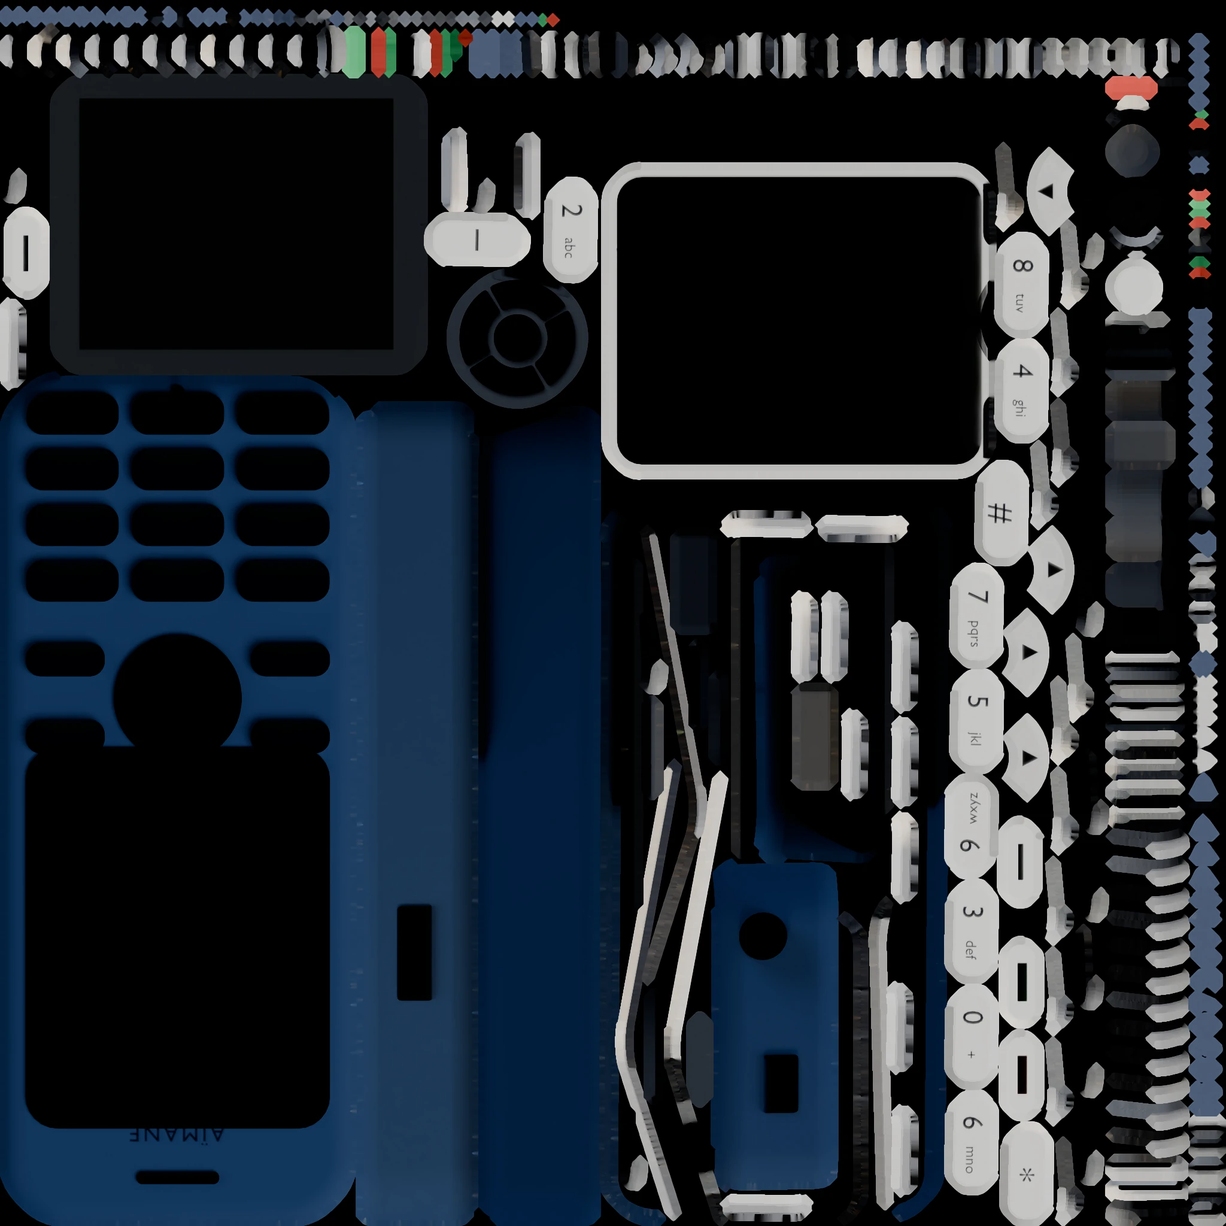
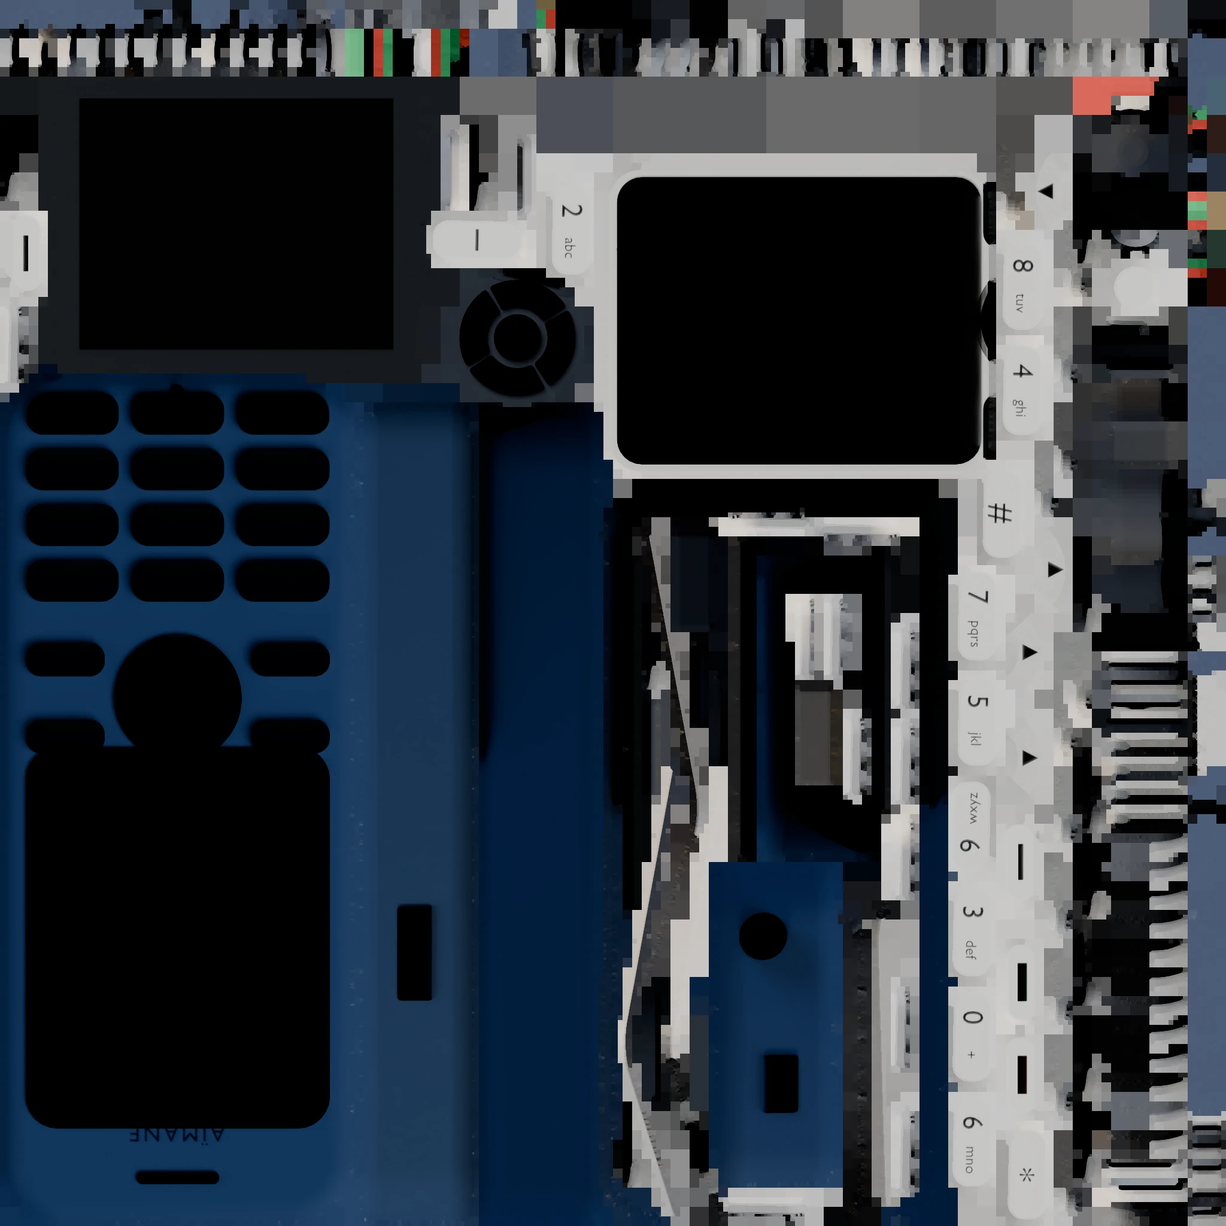
Phone version: fill texture gaps so small keys keep their colours
Empty space in the baked textures is now filled with nearby colours, so
labels on small keys no longer turn dark when the phone is seen at a
distance.

Claude-Session: https://claude.ai/code/session_016hYwLkNDJSpwwKGYn8Pvn6

diff --git a/phone/app.js b/phone/app.js
@@ -4276,7 +4276,7 @@ Touches : fl\xE8ches ou 2 4 6 8 pour bouger, OK ou la touche gauche pour choisir
         col += g;
         gl_FragColor = vec4(col, 1.0);
         #include <colorspace_fragment>
-      }`});return n.extensions={derivatives:!0},{mat:n,tex:e,data:i,uniforms:t}}function Fh(i,e){let t=ea[e]||ea.green;i.uniforms.uBg.value.set(t.bg),i.uniforms.uEdge.value.set(t.edge),i.uniforms.uInk.value.set(t.ink)}var Hx={1:1209,2:1336,3:1477,4:1209,5:1336,6:1477,7:1209,8:1336,9:1477,star:1209,0:1336,hash:1477},oc=class{constructor(){this.ctx=null,this.on=!0}unlock(){if(this.ctx){this.ctx.state==="suspended"&&this.ctx.resume();return}let e=window.AudioContext||window.webkitAudioContext;if(e)try{this.ctx=new e}catch{this.ctx=null}}tone(e,t,n=.035,s=0){if(!this.on||!this.ctx)return;let r=this.ctx,a=r.currentTime+s,o=r.createOscillator(),c=r.createGain();o.type="square",o.frequency.value=e,c.gain.setValueAtTime(0,a),c.gain.linearRampToValueAtTime(n,a+.004),c.gain.setValueAtTime(n,a+t-.01),c.gain.linearRampToValueAtTime(0,a+t),o.connect(c).connect(r.destination),o.start(a),o.stop(a+t+.02)}play(e,t){e==="key"?this.tone(Hx[t]||1650,.06):e==="tap"?this.tone(1900,.03,.02):e==="eat"?this.tone(2100,.035,.03):e==="over"?[880,660,440].forEach((n,s)=>this.tone(n,.12,.035,s*.13)):e==="boot"&&[[784,.11],[988,.11],[1175,.11],[1568,.26],[1319,.11],[1568,.34]].reduce((n,[s,r])=>(this.tone(s,r,.03,n),n+r+.02),.05)}};var cc={w:44,h:44,rows:["............................................","............................................","............................................","............................................","............................................","..................######....................",".................##########.................","...............#####.#######................","..............###..........##...............",".............##.............#...............","............##...#..#..#..#..#..............","............##..#..#.........##.............","............##..#....#..##...##.............","............#..#...........#..#.............","............#.######..#..#..#.#.............","...........##.##.##....######.#.............","............#.......#.........#.............","............#.####.##..####.#.#.............","...........##.##.#.##..#.##.#.#.............","..........##......##..........##............","..........##..#....#...#...#...##...........","..........##..#..#.....#.....#.#............","..........##...#..###.##..#..#.#............","...........###.....##.........##............","...........##..#..#....##..##.#.............","............#.#..##..#..#....##.............",".............##.#.##.##.##..##..............",".............#..#.........#.#...............","..............##.#.##..#..#.#...............","..............#..#.....#....#...............","..............##..#..#...#.##...............","..............##..#......#..#...............","..............###.###.###.#.#...............",".............##..#..##..#...#...............","..............##.#.......#.#..#.............","...........#...#..##..#..#.#..#.............","..........##....##..#..#..#...##............","........####.....##.#..###....####..........","......######......##..#.......#######.......","....####.####........#........#########.....","..#####.##.##................############...","#######.#.###.....######.....###.###########","###.#.##.####....##.#####....####..##.######","#.###..###.##..####...##.##..######.##..####"]};var dc="1",Vx="#e9e2d6",on=i=>document.querySelector(i),cs=(i,e)=>{try{if(e===void 0)return localStorage.getItem("ab95."+i);localStorage.setItem("ab95."+i,e)}catch{return null}},lc=(i,e,t)=>new N(i,t,-e),Wx=i=>i<.5?4*i*i*i:1-Math.pow(-2*i+2,3)/2,qx=new URLSearchParams(location.search),hc=qx.get("lang")||cs("lang")||((navigator.language||"").toLowerCase().startsWith("fr")?"fr":"en");Ni[hc]||(hc="en");var Fi=new oc,Nt={lang:hc,tones:cs("tones")!=="0",backlight:cs("backlight")||"green",photo:null};Fi.on=Nt.tones;var os=on("#scene"),ls;try{ls=new Xo({canvas:os,antialias:!0,powerPreference:"high-performance"})}catch(i){throw location.replace(`${Dt.quick}?lang=${hc}`),i}ls.setPixelRatio(Math.min(window.devicePixelRatio||1,2));ls.outputColorSpace=mt;ls.toneMapping=wn;var kh=new br,Lf=new Ae(Vx);kh.background=Lf;var Xt=new Mt(40,1,.01,60),fc=new Bs,zh=0,Df=!1;fc.onProgress=(i,e,t)=>{zh=e/t};var Nf=new Yi(fc),Xx=ls.capabilities.getMaxAnisotropy();function Uh(i){let e=Nf.load(`assets/${i}.webp?v=${dc}`);return e.flipY=!1,e.colorSpace=mt,e.anisotropy=Math.min(8,Xx),new fn({map:e})}var Gh={baked_phone:Uh("phone"),baked_props:Uh("props"),baked_room:Uh("room")},Hh=Nf.load(`assets/floor.webp?v=${dc}`);Hh.flipY=!1;Hh.colorSpace=On;Gh.baked_floor=new sn({uniforms:{map:{value:Hh},bg:{value:Lf}},vertexShader:"varying vec2 vUv; void main(){ vUv = uv; gl_Position = projectionMatrix * modelViewMatrix * vec4(position,1.0); }",fragmentShader:`uniform sampler2D map; uniform vec3 bg; varying vec2 vUv;
+      }`});return n.extensions={derivatives:!0},{mat:n,tex:e,data:i,uniforms:t}}function Fh(i,e){let t=ea[e]||ea.green;i.uniforms.uBg.value.set(t.bg),i.uniforms.uEdge.value.set(t.edge),i.uniforms.uInk.value.set(t.ink)}var Hx={1:1209,2:1336,3:1477,4:1209,5:1336,6:1477,7:1209,8:1336,9:1477,star:1209,0:1336,hash:1477},oc=class{constructor(){this.ctx=null,this.on=!0}unlock(){if(this.ctx){this.ctx.state==="suspended"&&this.ctx.resume();return}let e=window.AudioContext||window.webkitAudioContext;if(e)try{this.ctx=new e}catch{this.ctx=null}}tone(e,t,n=.035,s=0){if(!this.on||!this.ctx)return;let r=this.ctx,a=r.currentTime+s,o=r.createOscillator(),c=r.createGain();o.type="square",o.frequency.value=e,c.gain.setValueAtTime(0,a),c.gain.linearRampToValueAtTime(n,a+.004),c.gain.setValueAtTime(n,a+t-.01),c.gain.linearRampToValueAtTime(0,a+t),o.connect(c).connect(r.destination),o.start(a),o.stop(a+t+.02)}play(e,t){e==="key"?this.tone(Hx[t]||1650,.06):e==="tap"?this.tone(1900,.03,.02):e==="eat"?this.tone(2100,.035,.03):e==="over"?[880,660,440].forEach((n,s)=>this.tone(n,.12,.035,s*.13)):e==="boot"&&[[784,.11],[988,.11],[1175,.11],[1568,.26],[1319,.11],[1568,.34]].reduce((n,[s,r])=>(this.tone(s,r,.03,n),n+r+.02),.05)}};var cc={w:44,h:44,rows:["............................................","............................................","............................................","............................................","............................................","..................######....................",".................##########.................","...............#####.#######................","..............###..........##...............",".............##.............#...............","............##...#..#..#..#..#..............","............##..#..#.........##.............","............##..#....#..##...##.............","............#..#...........#..#.............","............#.######..#..#..#.#.............","...........##.##.##....######.#.............","............#.......#.........#.............","............#.####.##..####.#.#.............","...........##.##.#.##..#.##.#.#.............","..........##......##..........##............","..........##..#....#...#...#...##...........","..........##..#..#.....#.....#.#............","..........##...#..###.##..#..#.#............","...........###.....##.........##............","...........##..#..#....##..##.#.............","............#.#..##..#..#....##.............",".............##.#.##.##.##..##..............",".............#..#.........#.#...............","..............##.#.##..#..#.#...............","..............#..#.....#....#...............","..............##..#..#...#.##...............","..............##..#......#..#...............","..............###.###.###.#.#...............",".............##..#..##..#...#...............","..............##.#.......#.#..#.............","...........#...#..##..#..#.#..#.............","..........##....##..#..#..#...##............","........####.....##.#..###....####..........","......######......##..#.......#######.......","....####.####........#........#########.....","..#####.##.##................############...","#######.#.###.....######.....###.###########","###.#.##.####....##.#####....####..##.######","#.###..###.##..####...##.##..######.##..####"]};var dc="2",Vx="#e9e2d6",on=i=>document.querySelector(i),cs=(i,e)=>{try{if(e===void 0)return localStorage.getItem("ab95."+i);localStorage.setItem("ab95."+i,e)}catch{return null}},lc=(i,e,t)=>new N(i,t,-e),Wx=i=>i<.5?4*i*i*i:1-Math.pow(-2*i+2,3)/2,qx=new URLSearchParams(location.search),hc=qx.get("lang")||cs("lang")||((navigator.language||"").toLowerCase().startsWith("fr")?"fr":"en");Ni[hc]||(hc="en");var Fi=new oc,Nt={lang:hc,tones:cs("tones")!=="0",backlight:cs("backlight")||"green",photo:null};Fi.on=Nt.tones;var os=on("#scene"),ls;try{ls=new Xo({canvas:os,antialias:!0,powerPreference:"high-performance"})}catch(i){throw location.replace(`${Dt.quick}?lang=${hc}`),i}ls.setPixelRatio(Math.min(window.devicePixelRatio||1,2));ls.outputColorSpace=mt;ls.toneMapping=wn;var kh=new br,Lf=new Ae(Vx);kh.background=Lf;var Xt=new Mt(40,1,.01,60),fc=new Bs,zh=0,Df=!1;fc.onProgress=(i,e,t)=>{zh=e/t};var Nf=new Yi(fc),Xx=ls.capabilities.getMaxAnisotropy();function Uh(i){let e=Nf.load(`assets/${i}.webp?v=${dc}`);return e.flipY=!1,e.colorSpace=mt,e.anisotropy=Math.min(8,Xx),new fn({map:e})}var Gh={baked_phone:Uh("phone"),baked_props:Uh("props"),baked_room:Uh("room")},Hh=Nf.load(`assets/floor.webp?v=${dc}`);Hh.flipY=!1;Hh.colorSpace=On;Gh.baked_floor=new sn({uniforms:{map:{value:Hh},bg:{value:Lf}},vertexShader:"varying vec2 vUv; void main(){ vUv = uv; gl_Position = projectionMatrix * modelViewMatrix * vec4(position,1.0); }",fragmentShader:`uniform sampler2D map; uniform vec3 bg; varying vec2 vUv;
     void main(){ float s = texture2D(map, vUv).r; s *= s; gl_FragColor = vec4(bg * s, 1.0);
     #include <colorspace_fragment>
     }`});var Ui=Af();Fh(Ui,Nt.backlight);Gh.lcd=Ui.mat;var rt={root:null,phone:null,dock:null,lcdMesh:null,keys:{},hands:{},pickDesk:[],pickPhone:[]},jx=/^(key_|LCD$|clock_(hour|min|sec)$)/,Oh=i=>{for(let e=i;e;e=e.parent)if(e.name&&jx.test(e.name))return e;return null};function Kx(i,e){let t=i.attributes.position,n=i.attributes.uv,s=t.count,r=new Float32Array(s*3),a=new Float32Array(s*2),o=new N;for(let l=0;l<s;l++)o.fromBufferAttribute(t,l).applyMatrix4(e),r[l*3]=o.x,r[l*3+1]=o.y,r[l*3+2]=o.z,n&&(a[l*2]=n.getX(l),a[l*2+1]=n.getY(l));let c=new Ot;return c.setAttribute("position",new gt(r,3)),c.setAttribute("uv",new gt(a,2)),i.index?c.setIndex(Array.from(i.index.array)):c.setIndex([...Array(s).keys()]),c}var Ff=new Jo(fc);Ff.setMeshoptDecoder(wf);Ff.load(`assets/office.glb?v=${dc}`,i=>{let e=i.scene;kh.add(e),e.updateMatrixWorld(!0),rt.root=e,rt.phone=e.getObjectByName("phone_root"),rt.dock=e.getObjectByName("dock_root");let t=new Map,n=[],s=a=>{for(let o=a;o;o=o.parent)if(o===rt.phone)return!0;return!1};e.traverse(a=>{if(!a.isMesh)return;let o=a.material&&a.material.name,c=Gh[o];if(!c)return;if(Oh(a)){a.material=c;return}let l=s(a),h=l?rt.phone:e,u=o+(l?"@phone":"");t.has(u)||t.set(u,{parent:h,mat:c,geos:[]});let d=new Le().copy(h.matrixWorld).invert().multiply(a.matrixWorld);t.get(u).geos.push(Kx(a.geometry,d)),n.push(a)}),n.forEach(a=>a.removeFromParent());for(let[a,o]of t){let c=new Lt(gf(o.geos),o.mat);c.name="merged_"+a,o.parent.add(c)}e.traverse(a=>{if(!a.isMesh)return;let o=Oh(a);o&&(o.name==="LCD"&&(rt.lcdMesh=a),o.name.startsWith("key_")&&!rt.keys[o.name.slice(4)]&&(rt.keys[o.name.slice(4)]=o,o.userData.rest=o.position.clone()),(o.name.startsWith("key_")||o.name==="LCD")&&rt.pickPhone.push(a))});for(let a of["hour","min","sec"])rt.hands[a]=e.getObjectByName("clock_"+a);let r=new Lt(new Ci(.1,.2,.08),new fn);r.visible=!1,r.position.set(0,-.004,-.01),rt.phone.add(r),rt.pickDesk.push(r),e.updateMatrixWorld(!0)});fc.onLoad=()=>{Df=!0,zh=1,e_()};fetch(`contact.json?v=${dc}`).then(i=>i.json()).then(i=>{Object.assign(Dt,{email:i.email||"",phone:i.phone||"",phoneShow:i.phoneShow||i.phone||""});for(let e of Object.values(Ni))for(let t of e.contacts)t.go==="mail"&&(t.v=Dt.email),t.go==="tel"&&(t.v=Dt.phoneShow);for(let e of Object.values(Ni))e.contacts=e.contacts.filter(t=>t.v);cn.dirty()}).catch(()=>{for(let i of Object.values(Ni))i.contacts=i.contacts.filter(e=>e.v)});Nt.photo={w:cc.w,h:cc.h,bits:Uint8Array.from(cc.rows.join(""),i=>i==="#"?1:0)};var cn=new ac({...Nt,get lang(){return Nt.lang},get tones(){return Nt.tones},get backlight(){return Nt.backlight},get photo(){return Nt.photo},sound:(i,e)=>Fi.play(i,e),onUrl:(i,e)=>{if(e||/^(mailto|tel):/.test(i)){window.location.href=i;return}window.open(i,"_blank","noopener")||(window.location.href=i)},onExit:()=>jh(),onSetting:(i,e)=>{i==="lang"&&mc(e),i==="tones"&&(Nt.tones=e,Fi.on=e,cs("tones",e?"1":"0"),qh()),i==="backlight"&&(Nt.backlight=e,Fh(Ui,e),cs("backlight",e))}}),Jx={wide:{pos:lc(-1.45,-2.45,1.85),target:lc(0,0,.52),fov:39.6},desk:{pos:lc(.035,-.44,.98),target:lc(0,0,.855),fov:54.4}},Yx=new N;function Zx(i){let e=Xt.aspect,t=9/16;if(e>=t)return i;let n=Math.tan(Li.degToRad(i/2))*t;return Li.radToDeg(2*Math.atan(n/e))}function $x(){let i=rt.phone;i.updateMatrixWorld(!0);let e=new N().setFromMatrixPosition(i.matrixWorld),t=new N(0,1,0).transformDirection(i.matrixWorld),n=new N(0,0,1).transformDirection(i.matrixWorld),s=36,r=Math.tan(Li.degToRad(s/2)),a=window.innerHeight,c=.158/Math.max(.6,(a-118)/a),h=Math.max(c/2/r,.072/2/(r*Xt.aspect)),u=e.clone().addScaledVector(t,.003+(c-.158)*.08);return{pos:u.clone().addScaledVector(n,h),target:u,fov:s,up:t}}var kt={pos:new N,target:new N,up:new N(0,1,0),fov:40},Rn=null,pt="start";function Vh(i){kt.pos.copy(i.pos),kt.target.copy(i.target),kt.up.copy(i.up||new N(0,1,0)),kt.fov=i.fov}function pc(i){if(i==="phone")return $x();let e=Jx[i];return{pos:e.pos.clone(),target:e.target.clone(),fov:Zx(e.fov),up:new N(0,1,0)}}function Wh(i,e,t){Rn={from:{pos:kt.pos.clone(),target:kt.target.clone(),up:kt.up.clone(),fov:kt.fov},name:i,t:0,dur:e,done:t}}function Qx(i){if(!Rn)return;Rn.t=Math.min(1,Rn.t+i/Rn.dur);let e=Wx(Rn.t),t=pc(Rn.name),n=Rn.from;if(kt.pos.lerpVectors(n.pos,t.pos,e),kt.target.lerpVectors(n.target,t.target,e),kt.up.lerpVectors(n.up,t.up,e).normalize(),kt.fov=n.fov+(t.fov-n.fov)*e,Rn.t>=1){let s=Rn.done;Rn=null,s&&s()}}var At={start:on("#start"),go:on("#go"),bar:on("#bar i"),hud:on("#hud"),tag:on("#tag"),hint:on("#hint"),back:on("#back"),who:on("#who"),links:on("#links"),sound:on("#sound"),langBtns:[...document.querySelectorAll("[data-lang]")]};function mc(i){Nt.lang=i,cs("lang",i),document.documentElement.lang=i;let e=Ni[i];document.querySelectorAll("[data-t]").forEach(n=>{n.textContent=e[n.dataset.t]}),At.langBtns.forEach(n=>n.setAttribute("aria-pressed",String(n.dataset.lang===i))),on("#q-desk").href=Dt.desk.replace("?",`?lang=${i}&`),on("#q-quick").href=`${Dt.quick}?lang=${i}`;let t=new URL(location.href);t.searchParams.set("lang",i),history.replaceState(null,"",t),cn.dirty()}function qh(){At.sound.setAttribute("aria-pressed",String(Nt.tones)),At.sound.classList.toggle("off",!Nt.tones)}At.langBtns.forEach(i=>i.addEventListener("click",()=>mc(i.dataset.lang)));At.sound.addEventListener("click",()=>{Nt.tones=!Nt.tones,Fi.on=Nt.tones,cs("tones",Nt.tones?"1":"0"),qh(),Fi.unlock(),Fi.play("tap")});mc(Nt.lang);qh();(function(){let e=new rs;e.clear();let t=on("#title"),n=4,s=[["A\xCFMANE",!0],["BENKHADDA",!0]],r=Math.max(...s.map(([c])=>e.textWidth(c,{bold:!0})))+2,a=22;t.width=r*n,t.height=a*n;let o=t.getContext("2d");o.fillStyle="#1d2a17",s.forEach(([c,l],h)=>{let u=new rs;u.clear(),u.text(c,1,0,{bold:l});let d=u.textWidth(c,{bold:l}),f=Math.round((r-d)/2)-1;for(let m=0;m<10;m++)for(let v=0;v<be;v++)u.get(v,m)&&o.fillRect((v+f)*n,(m+h*11)*n,n-.6,n-.6)})})();function e_(){At.start.classList.add("ready"),At.go.disabled=!1,Vh(pc("wide"))}At.go.addEventListener("click",()=>{!Df||pt!=="start"||(Fi.unlock(),pt="intro",At.start.classList.add("gone"),setTimeout(()=>{At.start.style.display="none"},900),Vh(pc("wide")),Wh("desk",2.6,()=>{pt="desk",document.body.dataset.mode="desk"}),setTimeout(()=>cn.powerOn(),1300))});function Xh(){pt==="desk"&&(pt="flying",document.body.dataset.mode="flying",Wh("phone",1.35,()=>{pt="phone",document.body.dataset.mode="phone"}),cn.on||cn.powerOn())}function jh(){pt==="phone"&&(pt="flying",document.body.dataset.mode="flying",Wh("desk",1.25,()=>{pt="desk",document.body.dataset.mode="desk"}))}At.back.addEventListener("click",()=>{cn.home(),jh()});var Ef=new Or,Rf=new Oe;function Bh(i,e,t){return Rf.set(i/window.innerWidth*2-1,-(e/window.innerHeight)*2+1),Ef.setFromCamera(Rf,Xt),Ef.intersectObjects(t,!1)[0]}function t_(i){let e=Ui.uniforms.uPad.value,t=i.uv;return[(t.x-e.x)/(1-2*e.x)*be,(t.y-e.y)/(1-2*e.y)*Ye]}function n_(){let i=rt.lcdMesh,e=new Zt().setFromObject(i),t=e.min.clone().project(Xt),n=e.max.clone().project(Xt);return Math.abs(t.y-n.y)/2*window.innerHeight/Ye/(1-2*Ui.uniforms.uPad.value.y)||2}var Cf=new Map;function Kh(i){let e=rt.keys[i];if(e&&(e.position.copy(e.userData.rest).z-=7e-4,clearTimeout(Cf.get(i)),Cf.set(i,setTimeout(()=>e.position.copy(e.userData.rest),130))),navigator.vibrate)try{navigator.vibrate(6)}catch{}cn.key(i)}var Je=null;os.addEventListener("pointerdown",i=>{Fi.unlock(),Je={id:i.pointerId,x:i.clientX,y:i.clientY,ax:i.clientX,ay:i.clientY,t:performance.now(),moved:0,lcd:!1,acc:0,scale:2},pt==="phone"&&Bh(i.clientX,i.clientY,[rt.lcdMesh])&&(Je.lcd=!0,Je.scale=n_()),os.setPointerCapture&&os.setPointerCapture(i.pointerId)});os.addEventListener("pointermove",i=>{if(uc.x=i.clientX/window.innerWidth-.5,uc.y=i.clientY/window.innerHeight-.5,!Je||Je.id!==i.pointerId)return;let e=i.clientX-Je.x,t=i.clientY-Je.y;if(Je.moved=Math.max(Je.moved,Math.hypot(i.clientX-Je.ax,i.clientY-Je.ay)),Je.x=i.clientX,Je.y=i.clientY,pt!=="phone")return;if(Je.lcd){Je.acc+=t/Je.scale;let r=Math.trunc(Je.acc);r&&(cn.drag(r),Je.acc-=r)}Je.sx0===void 0&&(Je.sx0=Je.ax,Je.sy0=Je.ay);let n=i.clientX-Je.sx0,s=i.clientY-Je.sy0;Math.max(Math.abs(n),Math.abs(s))>22&&(cn.swipe(Math.abs(n)>Math.abs(s)?n>0?"right":"left":s>0?"down":"up"),Je.sx0=i.clientX,Je.sy0=i.clientY,Je.swiped=!0)});os.addEventListener("pointerup",i=>{if(!Je||Je.id!==i.pointerId)return;let e=Je;if(Je=null,!(e.moved>10||performance.now()-e.t>700)){if(pt==="desk")Bh(i.clientX,i.clientY,rt.pickDesk)?Xh():i_();else if(pt==="phone"){let t=Bh(i.clientX,i.clientY,rt.pickPhone);if(!t)return;if(t.object===rt.lcdMesh){let[n,s]=t_(t);cn.tap(n,s)}else{let n=Oh(t.object);n&&Kh(n.name.slice(4))}At.hint.classList.add("used")}}});os.addEventListener("pointercancel",()=>{Je=null});function i_(){At.tag.classList.remove("nudge"),At.tag.offsetWidth,At.tag.classList.add("nudge")}var s_={ArrowUp:"up",ArrowDown:"down",ArrowLeft:"left",ArrowRight:"right",Enter:"ok"," ":"ok",Backspace:"soft_r",Escape:"end","*":"star","#":"hash",s:"soft_l",d:"soft_r",c:"call",e:"end"};window.addEventListener("keydown",i=>{if(i.metaKey||i.ctrlKey||i.altKey)return;if(pt==="start"&&i.key==="Enter"){At.go.click();return}if(pt==="desk"&&(i.key==="Enter"||i.key===" ")){Xh(),i.preventDefault();return}if(pt!=="phone")return;let e=/^[0-9]$/.test(i.key)?i.key:s_[i.key];e&&(i.preventDefault(),Kh(e))});var uc={x:0,y:0},Pf=new N;function Uf(){let i=window.innerWidth,e=window.innerHeight;ls.setSize(i,e,!1),Xt.aspect=i/e,Xt.updateProjectionMatrix(),!Rn&&rt.phone&&pt!=="start"&&Vh(pc(pt==="phone"?"phone":pt==="desk"?"desk":"wide"))}window.addEventListener("resize",Uf);Uf();var If=performance.now(),ta=new N;function Of(i){let e=Math.min(.05,(i-If)/1e3);If=i,Qx(e),cn.update(e)&&(Ui.data.set(cn.fb.px),Ui.tex.needsUpdate=!0);let t=cn.on?1:0,n=Ui.uniforms.uLight;if(n.value+=(t-n.value)*Math.min(1,e*4),rt.hands.sec){let a=new Date,o=a.getSeconds()+a.getMilliseconds()/1e3,c=a.getMinutes()+o/60,l=a.getHours()%12+c/60;rt.hands.sec.rotation.z=-Math.floor(o)/60*Math.PI*2,rt.hands.min.rotation.z=-c/60*Math.PI*2,rt.hands.hour.rotation.z=-l/12*Math.PI*2}let s=i/1e3,r=pt==="desk"||pt==="intro"?1:0;Pf.lerp(Yx.set(Math.sin(s*.33)*.008+uc.x*.02,Math.sin(s*.27)*.004-uc.y*.01,0).multiplyScalar(r),Math.min(1,e*2)),Xt.position.copy(kt.pos).add(Pf),Xt.up.copy(kt.up),Xt.fov!==kt.fov&&(Xt.fov=kt.fov,Xt.updateProjectionMatrix()),Xt.lookAt(kt.target),rt.phone&&pt==="desk"&&(ta.setFromMatrixPosition(rt.phone.matrixWorld),ta.y+=.095,ta.project(Xt),At.tag.style.transform=`translate(${(ta.x*.5+.5)*window.innerWidth}px, ${(-ta.y*.5+.5)*window.innerHeight}px)`),At.bar&&(At.bar.style.transform=`scaleX(${zh})`),ls.render(kh,Xt),requestAnimationFrame(Of)}requestAnimationFrame(Of);window.__ab95={os:cn,world:rt,camera:Xt,get mode(){return pt},goPhone:Xh,goDesk:jh,pressKey:Kh,setLang:mc};

diff --git a/phone/src/main.js b/phone/src/main.js
@@ -11,7 +11,7 @@ import { T, LINKS } from './content.js';
 import { FB } from './lcd/fb.js';
 import { PHOTO } from './lcd/photo.js';
 
-const V = '1';
+const V = '2';
 const BG_HEX = '#e9e2d6';
 const $ = s => document.querySelector(s);
 const ls = (k, v) => { try { if (v === undefined) return localStorage.getItem('ab95.' + k); localStorage.setItem('ab95.' + k, v); } catch (e) { return null; } };

diff --git a/phone/index.html b/phone/index.html
@@ -60,6 +60,6 @@
 </nav>
 
 <noscript><p class="nojs">This page needs JavaScript. <a href="../os/">Open the quick version</a>.</p></noscript>
-<script type="module" src="app.js?v=ab95-1"></script>
+<script type="module" src="app.js?v=ab95-2"></script>
 </body>
 </html>

diff --git a/phone/blender/dilate.py b/phone/blender/dilate.py
@@ -1,0 +1,62 @@
+"""Fill the empty texels of each baked atlas (push-pull) so smaller mip levels never pull in black.
+usage: dilate.py office.glb out_dir"""
+import json, struct, sys, os
+import numpy as np
+from PIL import Image, ImageDraw
+
+glb, out = sys.argv[1], sys.argv[2]
+d = open(glb, 'rb').read()
+jl = struct.unpack('<I', d[12:16])[0]
+js = json.loads(d[20:20 + jl])
+bin_ = d[20 + jl + 8:]
+
+def acc(i):
+    a = js['accessors'][i]; bv = js['bufferViews'][a['bufferView']]
+    n = {'SCALAR': 1, 'VEC2': 2, 'VEC3': 3}[a['type']]
+    dt = {5126: np.float32, 5123: np.uint16, 5125: np.uint32}[a['componentType']]
+    off = bv.get('byteOffset', 0) + a.get('byteOffset', 0)
+    arr = np.frombuffer(bin_[off:off + a['count'] * n * np.dtype(dt).itemsize], dtype=dt)
+    return arr.reshape(-1, n) if n > 1 else arr
+
+def push_pull(img, mask):
+    levels = [(img * mask[..., None], mask.astype(np.float32))]
+    while min(levels[-1][1].shape) > 1:
+        c, w = levels[-1]
+        h, ww = (c.shape[0] // 2) * 2, (c.shape[1] // 2) * 2
+        c, w = c[:h, :ww], w[:h, :ww]
+        cs = c.reshape(h // 2, 2, ww // 2, 2, 3).sum((1, 3))
+        ws = w.reshape(h // 2, 2, ww // 2, 2).sum((1, 3))
+        levels.append((cs, ws))
+    # normalise every level, then fill holes from the coarser level
+    norm = [(c / np.maximum(w, 1e-6)[..., None], w > 0) for c, w in levels]
+    fill = norm[-1][0]
+    for c, has in reversed(norm[:-1]):
+        up = np.repeat(np.repeat(fill, 2, 0), 2, 1)
+        up = np.pad(up, ((0, c.shape[0] - up.shape[0]), (0, c.shape[1] - up.shape[1]), (0, 0)), mode='edge')
+        fill = np.where(has[..., None], c, up)
+    return fill
+
+for group in ('phone', 'props', 'room'):
+    path = os.path.join(out, group + '.png')
+    im = Image.open(path).convert('RGB')
+    W, H = im.size
+    m = Image.new('L', (W, H), 0)
+    dr = ImageDraw.Draw(m)
+    for mesh in js['meshes']:
+        for p in mesh['primitives']:
+            if js['materials'][p['material']]['name'] != 'baked_' + group:
+                continue
+            uv = acc(p['attributes']['TEXCOORD_0']) * [W, H]
+            idx = acc(p['indices']).reshape(-1, 3)
+            for t in idx:
+                dr.polygon([tuple(uv[k]) for k in t], fill=255, outline=255)
+    mask = np.asarray(m) > 0
+    # keep a few pixels of the bake's own margin as real data
+    for _ in range(3):
+        mm = mask.copy()
+        mm[1:] |= mask[:-1]; mm[:-1] |= mask[1:]; mm[:, 1:] |= mask[:, :-1]; mm[:, :-1] |= mask[:, 1:]
+        mask = mm
+    a = np.asarray(im).astype(np.float32)
+    res = push_pull(a, mask)
+    Image.fromarray(np.clip(res + 0.5, 0, 255).astype(np.uint8)).save(os.path.join(out, group + '_filled.png'))
+    print(group, 'covered', round(mask.mean() * 100, 1), '%')

diff --git a/phone/README.md b/phone/README.md
@@ -39,6 +39,6 @@ python blender/bake.py --size 2048 --spp 64   # bakes lighting -> out/*.png + ou
 npx gltfpack -i out/office.glb -o assets/office.glb -cc -kn -km -kv -vtf
 ```
 
-Convert the baked PNGs to WebP (`phone`, `props`, `room`, and `floor_ratio` saved as `floor.webp`) into `assets/`.
+Run `python blender/dilate.py out/office.glb out` to fill the empty texels, then convert the `*_filled.png` files to WebP (`phone`, `props`, `room`, and `floor_ratio` saved as `floor.webp`) into `assets/`.
 
 three.js is © its authors, MIT License.
